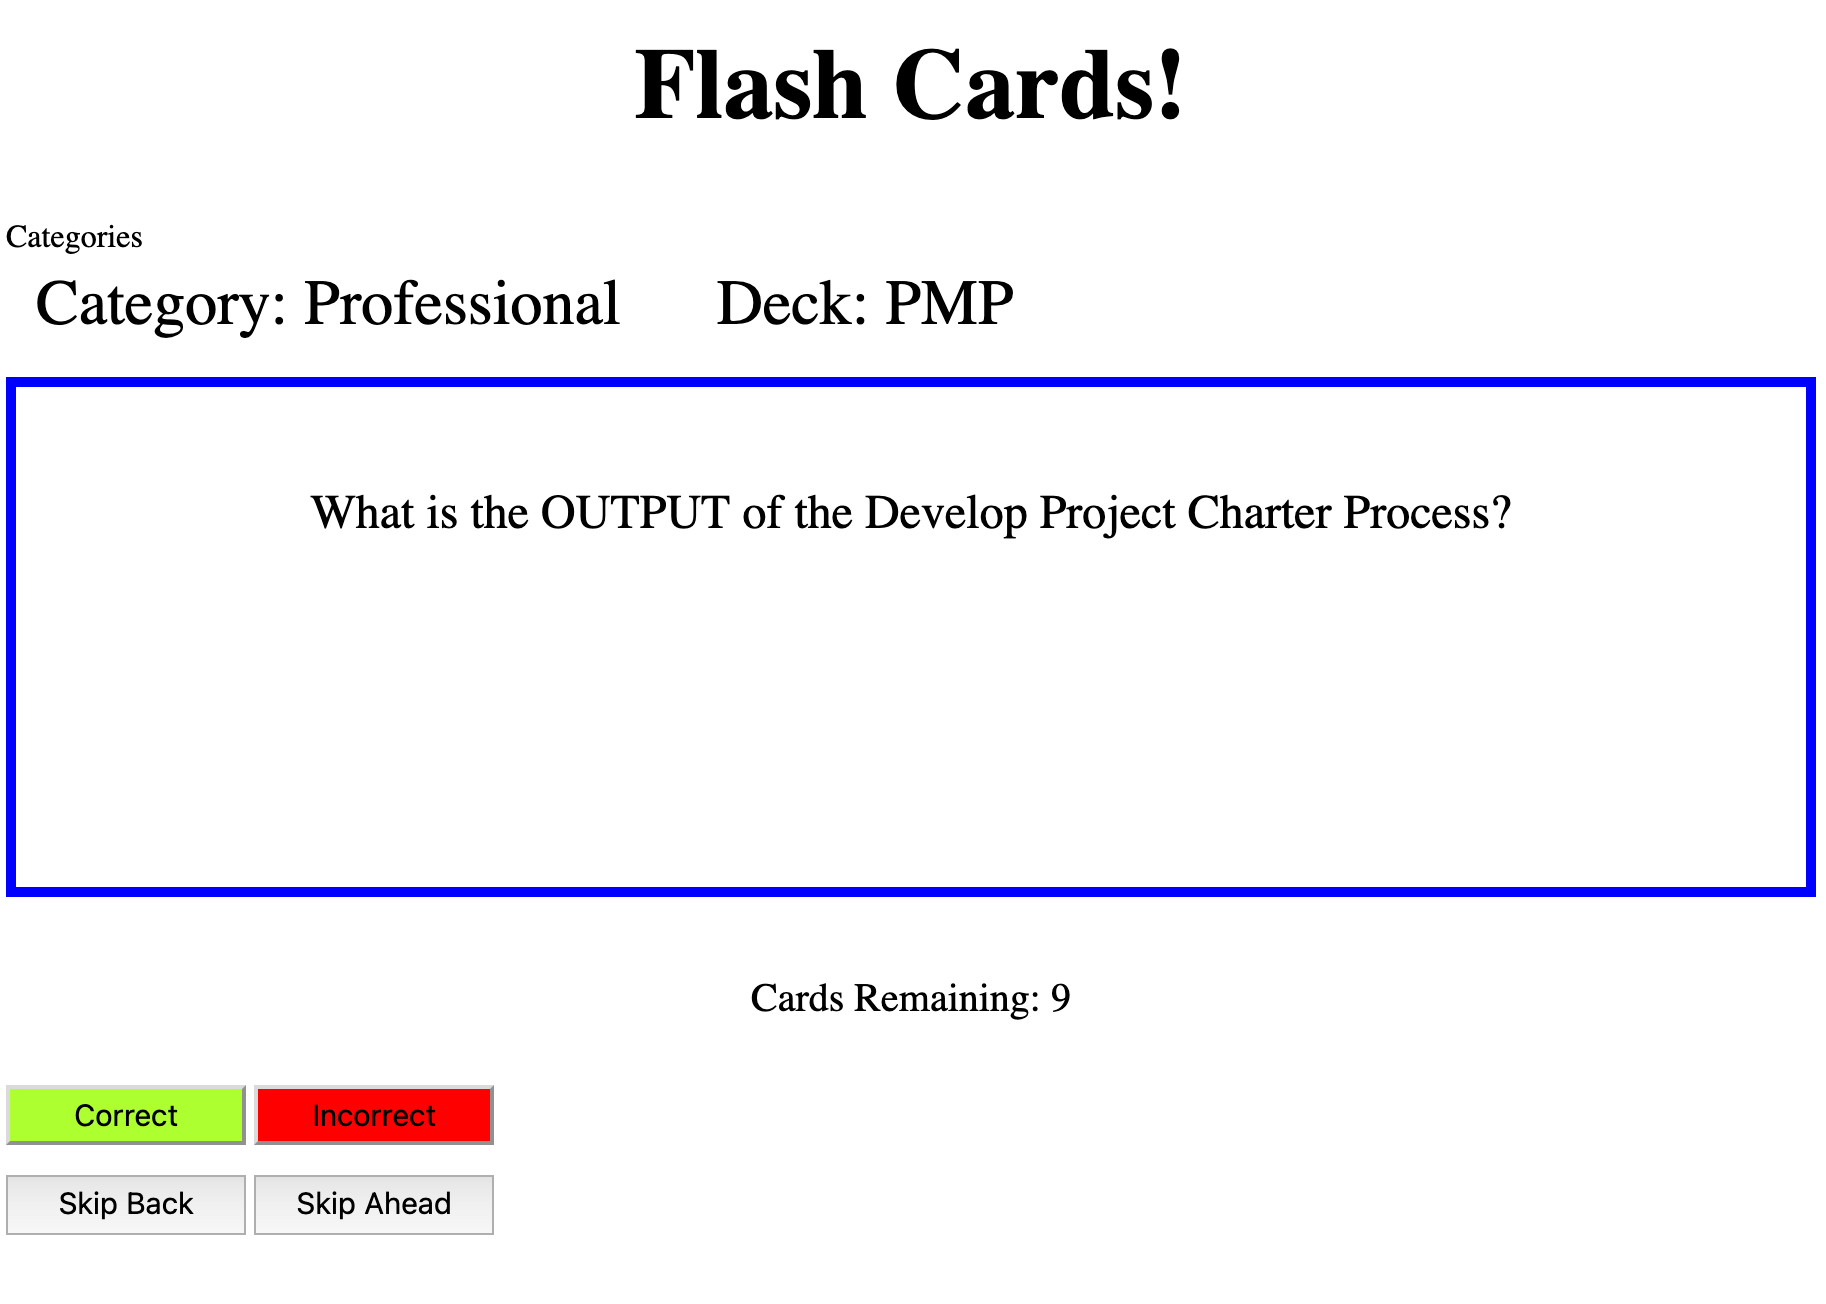
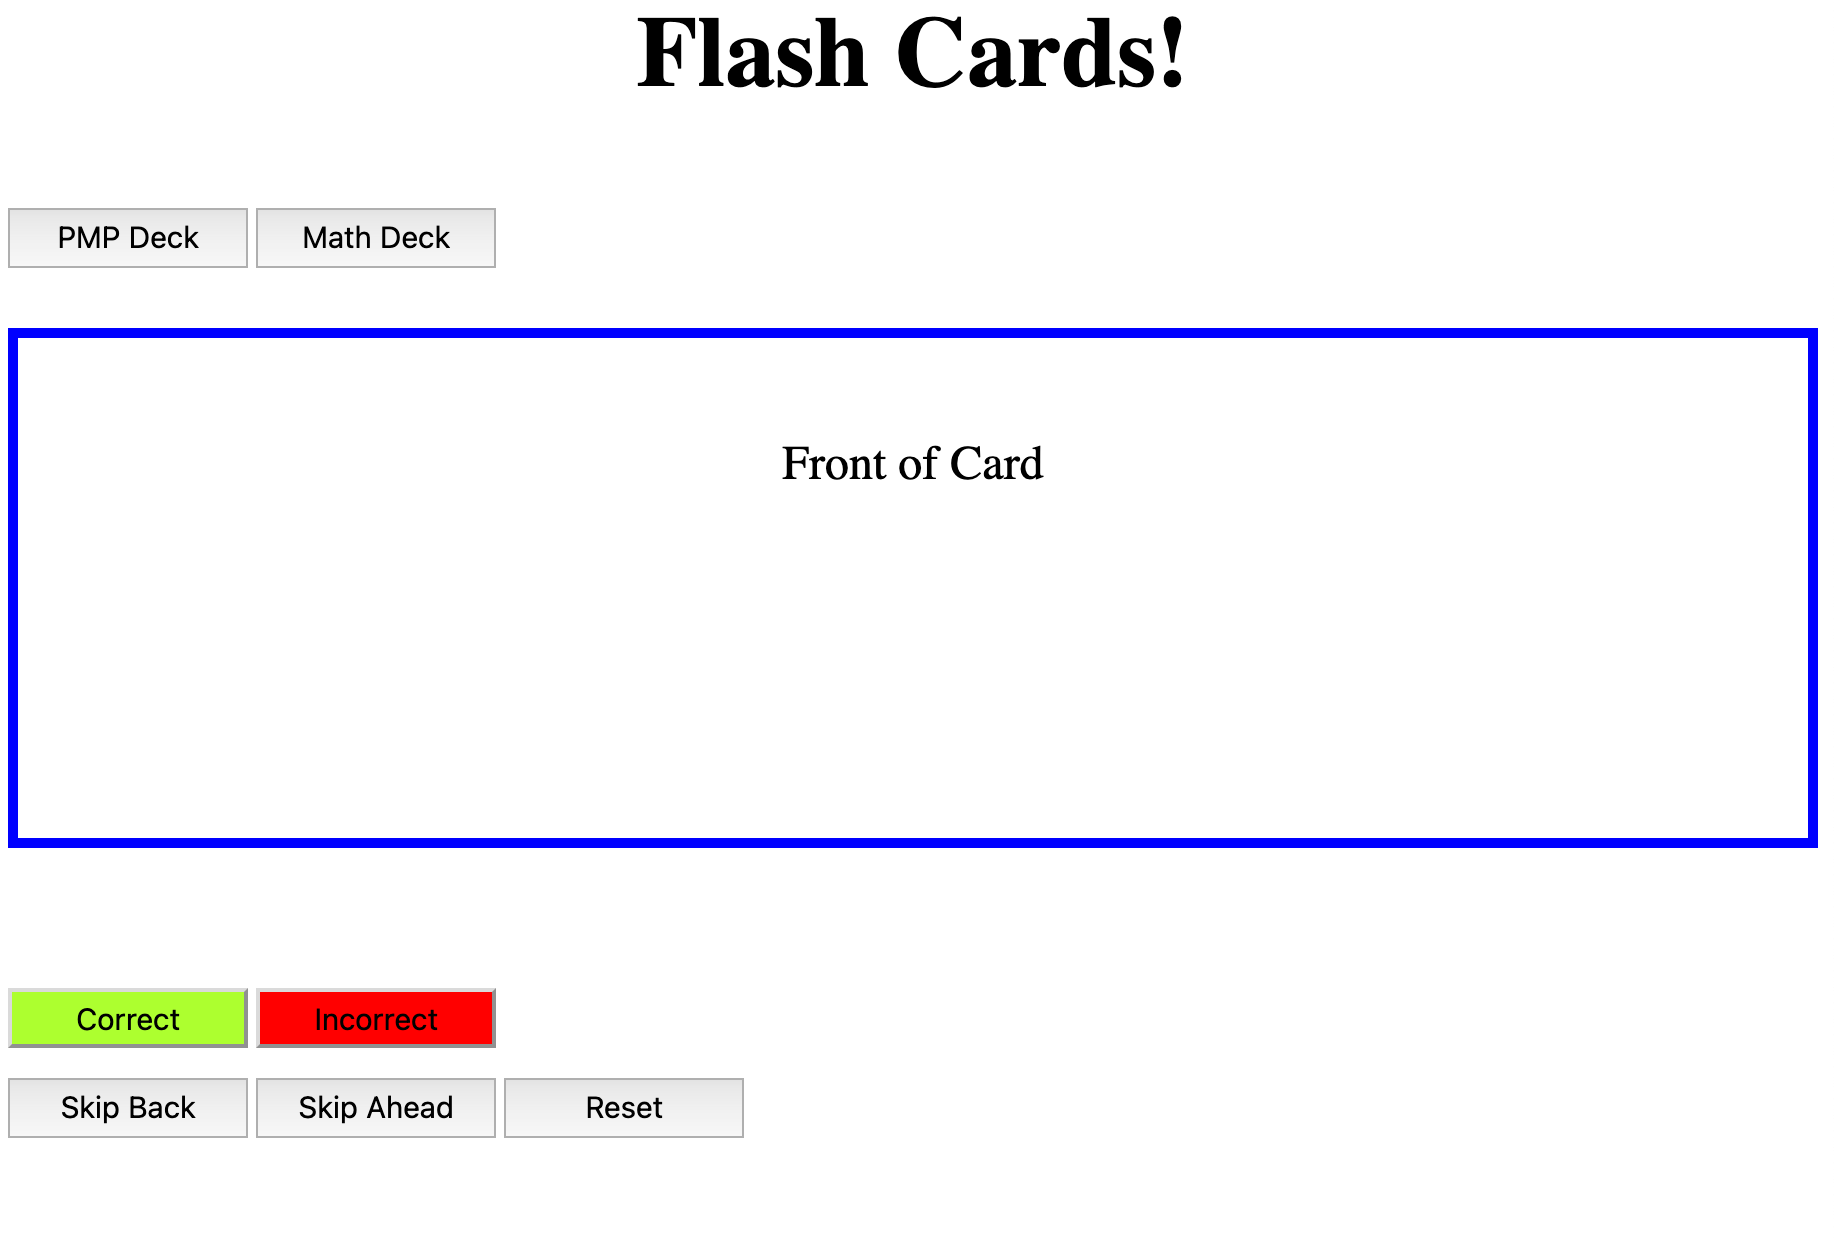
add deck buttons

diff --git a/script.js b/script.js
@@ -13,8 +13,8 @@ Bronze version:
     * place card in the back of the deck
     * proceed to next card
 Silver version:
-- Multiple decks pre-loaded
-- Choose deck
+* Multiple decks pre-loaded
+* Choose deck
 * Progress
 * Red/Green buttons
 - Background image for deck
@@ -46,6 +46,8 @@ const score = document.querySelector('.score');
 const deckInfo = document.querySelector('.deckInfo');
 const skipButtonF = document.querySelector('#skipf');
 const skipButtonB = document.querySelector('#skipb');
+const pmpButton = document.querySelector('#pmpGame');
+const mathButton = document.querySelector('#mathGame');
 let incorrectCounter = 0;
 
 
@@ -57,6 +59,8 @@ incorrButton.addEventListener('click', incorrect);
 resetButton.addEventListener('click', reset);
 skipButtonF.addEventListener('click', skipf);
 skipButtonB.addEventListener('click', skipb);
+pmpButton.addEventListener('click', playPmpDeck);
+mathButton.addEventListener('click', playMathDeck);
 
 
 /* testing get flip functionality to work
@@ -91,6 +95,13 @@ function playPmpDeck() {     //specific to PMP Flashcards
     nextCard();
 }
 
+function playMathDeck() {     //specific to Math Flashcards
+    fullDeck = mathDeck;
+    deckInfo.innerText = 'Category: ' + fullDeck[0].category + '\xa0\xa0\xa0\xa0\xa0\xa0Deck: ' + fullDeck[0].deck;
+    // deckInfo.innerHTML = `Category:  ${fullDeck[0].category}    /n    Deck: ${fullDeck[0].deck}`;
+    score.innerHTML = `Cards Remaining: ${fullDeck.length}`;
+    nextCard();
+}
 // function buildDeck() {       //generic function that can later be used for any Deck
 //     for (let i=0; i<fullDeck; i++) {
 
@@ -182,20 +193,21 @@ const card6 = new Card('Professional', 'PMP', 'What are OPAs?', 'Organizational 
 const card7 = new Card('Professional', 'PMP', 'What are the Processes in the Initiating Process Group?', `Develop Project Charter<br>Identify Stakeholders`);
 const card8 = new Card('Professional', 'PMP', 'What are the INPUTS to the Collect Requirements Process?', `Scope Management Plan<br>Requirements Management Plan<br>Stakeholder Management Plan<br>Project Charter<br>Stakeholder Register`);
 const card9 = new Card('Professional', 'PMP', 'Project staff assignments and Resource calendars are OUTPUTS of which Process?', 'Acquire Project Team (part of Executing Process Group)');
-const pmpDeck = [card1, card2, card3, card4, card5, card6, card7, card8, card9];
+const card10 = new Card('Professional', 'PMP', 'Critical Path', 'The sequence of activities that represents the longest path through a project, which determines the shortest possible duration');
+const pmpDeck = [card1, card2, card3, card4, card5, card6, card7, card8, card9, card10];
 
 // Creating Math Deck
-const card10 = new Card('School', 'Math', '12 x 12', '144');
-const card11 = new Card('School', 'Math', '64 ^-2', '8');
-const card12 = new Card('School', 'Math', 'Radius of a circle', 'PI * r^2');
-const card13 = new Card('School', 'Math', '12 x 12', '144');
+const card11 = new Card('School', 'Math', '12 x 12', '144');
+const card12 = new Card('School', 'Math', '64 ^-2', '8');
+const card13 = new Card('School', 'Math', 'Radius of a circle', 'PI * r^2');
 const card14 = new Card('School', 'Math', '12 x 12', '144');
 const card15 = new Card('School', 'Math', '12 x 12', '144');
 const card16 = new Card('School', 'Math', '12 x 12', '144');
 const card17 = new Card('School', 'Math', '12 x 12', '144');
 const card18 = new Card('School', 'Math', '12 x 12', '144');
 const card19 = new Card('School', 'Math', '12 x 12', '144');
+const card20 = new Card('School', 'Math', '12 x 12', '144');
+const mathDeck = [card11, card12, card13, card14, card15, card16, card17, card18, card19, card20];
 
-
-playPmpDeck();
+// playPmpDeck();
 

diff --git a/index.html b/index.html
@@ -14,6 +14,8 @@
     </header>
     <main>
       <div class="categories"></div>
+        <button id="pmpGame" class="button">PMP Deck</button>
+        <button id="mathGame" class="button">Math Deck</button>
       <div class="deckInfo"></div>
       <div class="cardArea">
         <p id="cardFront" class="visible hidden">Front of Card</p>
